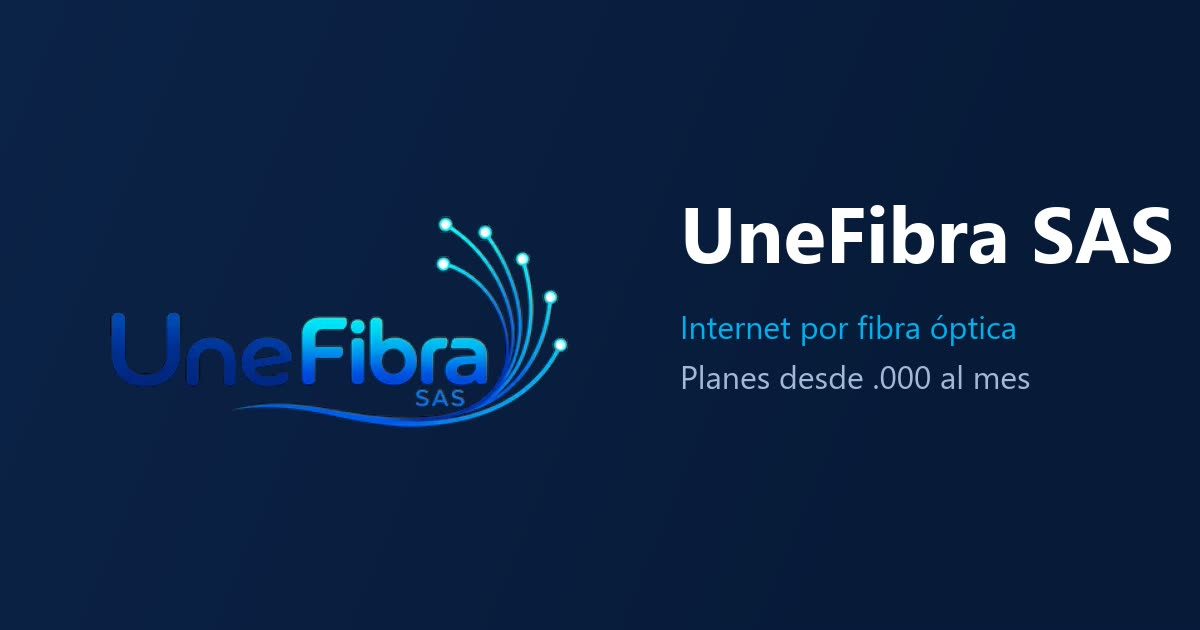
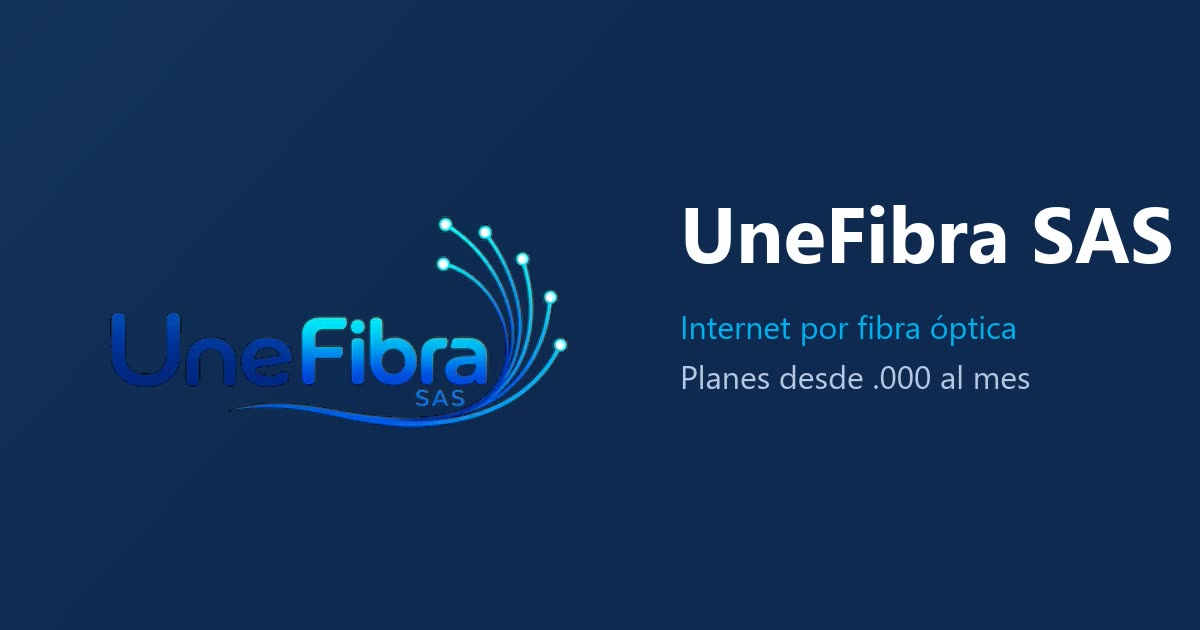
Fix: badge RECOMENDADO visible + paleta mas clara en tarjeta UneFibra

Changed region(s): [[0.5858, 0.0, 1.0, 0.9952], [0.7092, 0.3016, 0.7708, 0.3619]]

diff --git a/styles.css b/styles.css
@@ -2,14 +2,16 @@
     :root{
       --c-primary:#0060e0;      
       --c-secondary:#00b0f0;    
-      --c-accent:#143059;       
+      --c-accent:#1f4577;       
       --c-warn:#00b0f0;         
-      --c-surface:#10294f;
-      --c-surface-alt:#0c2248;
+      --c-surface:#1a3a66;
+      --c-surface-alt:#14325c;
       --c-text:#eaf2ff;
-      --c-text-mute:#a6b7d8;
-      --c-bg:#081a3a;
-      --c-line:rgba(150,175,215,.16);
+      --c-text-mute:#b8c8e4;
+      --c-bg:#0f2a52;
+      --c-line:rgba(150,175,215,.25);
+      /* Texto que va ENCIMA de un fondo cian (badges). Oscuro para que se lea. */
+      --c-on-accent:#081a3a;
       --grad-marca:linear-gradient(120deg,#00b0f0 0%,#0060e0 100%);
 
       --radius-sm:10px;
@@ -81,7 +83,7 @@
 
     /* MÓDULO 2 — PORTADA */
     .portada{
-      background:linear-gradient(160deg, #0c2248 0%, #081a3a 100%);
+      background:linear-gradient(160deg, #14325c 0%, #0f2a52 100%);
       padding:var(--space-6) var(--space-5) var(--space-5);
       text-align:center; color:#fff;
     }
@@ -90,7 +92,7 @@
     .avatar-wrap img{width:100%; height:100%; object-fit:cover; border-radius:var(--radius-full); border:3px solid var(--c-secondary);}
     .badge-verificado{
       position:absolute; bottom:2px; right:2px; width:26px; height:26px; border-radius:var(--radius-full);
-      background:var(--c-secondary); color:#081a3a; display:flex; align-items:center; justify-content:center;
+      background:var(--c-secondary); color:var(--c-on-accent); display:flex; align-items:center; justify-content:center;
       font-size:12px; border:2px solid var(--c-primary);
     }
     .portada h1{font-family:var(--font-display); font-size:24px; font-weight:800; letter-spacing:-.01em;}
@@ -132,7 +134,7 @@
       display:flex; align-items:center; justify-content:center; font-size:18px; color:var(--c-secondary);
       transition:all var(--dur-fast) var(--ease); border:1px solid var(--c-line);
     }
-    .nav-item:active .ic{transform:scale(.92); background:var(--c-secondary); color:#081a3a;}
+    .nav-item:active .ic{transform:scale(.92); background:var(--c-secondary); color:var(--c-on-accent);}
 
     #redes-row{padding:0 var(--space-5) var(--space-4); display:flex; gap:10px; justify-content:center;}
     .social-btn{
@@ -218,8 +220,12 @@
     .servicio-cuerpo{flex:1;}
     .precio{
       display:inline-block; margin-top:6px; font-size:12px; font-weight:700;
-      color:var(--c-secondary); background:var(--c-accent); padding:3px 10px; border-radius:var(--radius-full);
+      color:var(--c-secondary); background:var(--c-surface-alt); padding:3px 10px; border-radius:var(--radius-full);
     }
+    /* En el plan destacado el fondo es el tinte claro, donde el cian solo llega a
+       3,89:1. El nombre usa el color de texto normal (8,57:1) y el cian queda para
+       el borde y la insignia, que sí contrastan. */
+    .plan-card--destacado .plan-nombre{color:var(--c-text);}
     .precio-pend{background:var(--c-surface-alt); color:var(--c-text-mute); font-weight:600; border:1px dashed rgba(150,175,215,.3);}
 
     /* Galería Swiper (fotos verticales) */
@@ -227,7 +233,7 @@
     #swiper-galeria .swiper-slide img{width:100%; height:100%; object-fit:cover; display:block;}
     .ph{
       width:100%; height:100%; min-height:340px; display:flex; flex-direction:column; align-items:center; justify-content:center;
-      gap:10px; background:linear-gradient(160deg, var(--c-surface-alt), #143059); color:var(--c-text-mute); font-size:13px;
+      gap:10px; background:linear-gradient(160deg, var(--c-surface-alt), #1f4577); color:var(--c-text-mute); font-size:13px;
     }
     .ph i{font-size:34px; color:var(--c-secondary);}
     .swiper-pagination-bullet-active{background:var(--c-secondary) !important;}
@@ -254,10 +260,12 @@
     .plan-card--ancho .plan-cuerpo{flex:1;}
     .plan-card--ancho .plan-btn{margin-top:0; flex:none;}
     .plan-badge{
-      position:absolute; top:-9px; right:10px;
-      background:var(--c-secondary); color:var(--c-secondary);
-      font-size:9px; font-weight:800; letter-spacing:.06em; text-transform:uppercase;
-      padding:3px 9px; border-radius:var(--radius-full);
+      position:absolute; top:-10px; right:12px; z-index:2;
+      background:var(--c-secondary); color:var(--c-on-accent);
+      font-size:11px; font-weight:800; letter-spacing:.06em; text-transform:uppercase;
+      padding:4px 10px; border-radius:var(--radius-full);
+      white-space:nowrap;
+      box-shadow:0 2px 8px rgba(0,0,0,.35);
     }
     .plan-cuerpo{flex:1;}
     .plan-nombre{font-family:var(--font-display); font-size:13px; font-weight:800; color:var(--c-secondary);}

diff --git a/privacidad.html b/privacidad.html
@@ -8,15 +8,15 @@
   <link rel="icon" type="image/png" href="icons/favicon-64.png" />
   <style>
     *{box-sizing:border-box;margin:0;padding:0}
-    body{background:#081a3a;color:#e5e5e5;font-family:'Montserrat',system-ui,sans-serif;line-height:1.7;padding:24px 16px 56px;display:flex;justify-content:center}
-    .hoja{max-width:640px;background:#10294f;border-radius:20px;padding:32px 28px;border:1px solid #00b0f0}
+    body{background:#0f2a52;color:#e5e5e5;font-family:'Montserrat',system-ui,sans-serif;line-height:1.7;padding:24px 16px 56px;display:flex;justify-content:center}
+    .hoja{max-width:640px;background:#1a3a66;border-radius:20px;padding:32px 28px;border:1px solid #00b0f0}
     h1{font-size:23px;color:#00b0f0;margin-bottom:6px;font-family:Georgia,serif}
     h2{font-size:17px;color:#00b0f0;margin:24px 0 8px}
     p,li{font-size:14.5px;color:#eaf2ff}
     ul{margin:8px 0 8px 20px}
     a{color:#00b0f0;font-weight:700}
-    .sello{margin-bottom:20px;padding-bottom:16px;border-bottom:1px solid rgba(250,204,21,.3);color:#a6b7d8;font-size:13px}
-    .volver{display:inline-block;margin-top:26px;background:#00b0f0;color:#10294f;text-decoration:none;font-weight:800;padding:12px 22px;border-radius:12px}
+    .sello{margin-bottom:20px;padding-bottom:16px;border-bottom:1px solid rgba(0,176,240,.3);color:#b8c8e4;font-size:13px}
+    .volver{display:inline-block;margin-top:26px;background:#00b0f0;color:#081a3a;text-decoration:none;font-weight:800;padding:12px 22px;border-radius:12px}
   </style>
 </head>
 <body>
@@ -58,7 +58,7 @@
     <h2>6. Tus derechos</h2>
     <p>Tienes derecho a conocer, actualizar, rectificar y suprimir tus datos, así como a revocar tu autorización. Escríbenos por WhatsApp al <a href="https://wa.me/573044654987">+57 304 465 4987</a> o al correo <a href="mailto:unefibrasas@gmail.com">unefibrasas@gmail.com</a>.</p>
 
-    <p style="margin-top:20px;font-size:13px;color:#a6b7d8">Última actualización: 2026.</p>
+    <p style="margin-top:20px;font-size:13px;color:#b8c8e4">Última actualización: 2026.</p>
     <a class="volver" href="./">← Volver a la tarjeta</a>
   </main>
 </body>

diff --git a/404.html b/404.html
@@ -8,13 +8,13 @@
   <link rel="icon" type="image/png" href="icons/favicon-64.png" />
   <style>
     *{box-sizing:border-box;margin:0;padding:0}
-    body{min-height:100vh;display:grid;place-items:center;background:#081a3a;color:#fff;
+    body{min-height:100vh;display:grid;place-items:center;background:#0f2a52;color:#fff;
       font-family:'Montserrat',system-ui,sans-serif;padding:24px;text-align:center}
     .caja{max-width:400px}
     .caja .nota{font-size:80px;margin-bottom:10px}
     h1{font-size:56px;color:#00b0f0;line-height:1;margin-bottom:8px;font-family:Georgia,serif}
-    p{color:#a6b7d8;font-size:15px;margin-bottom:24px;line-height:1.6}
-    a{display:inline-block;background:#00b0f0;color:#10294f;text-decoration:none;font-weight:800;padding:14px 26px;border-radius:12px}
+    p{color:#b8c8e4;font-size:15px;margin-bottom:24px;line-height:1.6}
+    a{display:inline-block;background:#00b0f0;color:#081a3a;text-decoration:none;font-weight:800;padding:14px 26px;border-radius:12px}
   </style>
 </head>
 <body>

diff --git a/index.html b/index.html
@@ -3,7 +3,7 @@
 <head>
   <meta charset="UTF-8" />
   <meta name="viewport" content="width=device-width, initial-scale=1.0" />
-  <meta name="theme-color" content="#081a3a" />
+  <meta name="theme-color" content="#0f2a52" />
   <title>UneFibra SAS — Internet Fibra Óptica | Medellín</title>
   <meta name="description" content="Internet por fibra óptica que sí se siente. Planes desde $50.000. Instalación 100% en fibra óptica en Medellín. Atención local.">
 

diff --git a/scripts.js b/scripts.js
@@ -21,7 +21,7 @@ const CONFIG = {
   colores: {
     primary:  "#0060e0",
     secondary:"#00b0f0",
-    accent:   "#143059"
+    accent:   "#1f4577"
   },
   /* Dos líneas reales y DISTINTAS (confirmado por el cliente en config.js de la
      landing): la de WhatsApp es 304 465 4987 y la de LLAMADAS es 321 749 0310.
